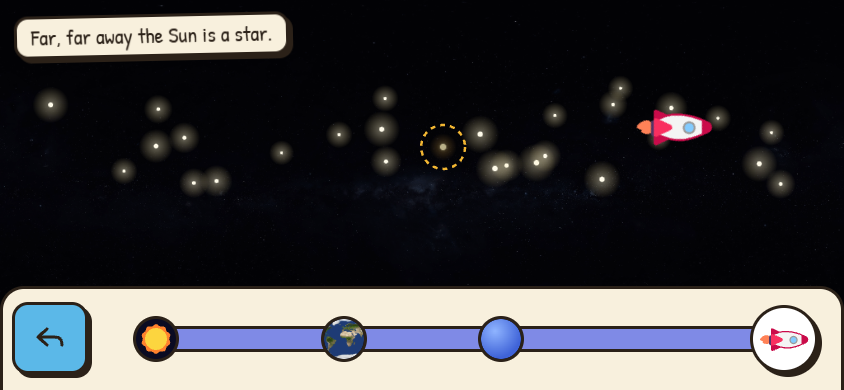
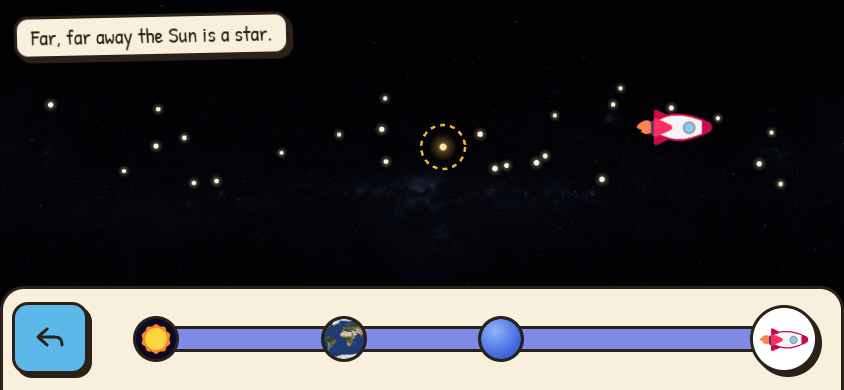
Far away toy: readable Sun size curve, Sun as bright as the brightest star, crisp sky stars

diff --git a/src/toys/sunStar.ts b/src/toys/sunStar.ts
@@ -21,7 +21,7 @@ import handUrl from '../pictures/hand.svg';
 import sunUrl from '../pictures/sun.svg';
 import glowstarUrl from '../pictures/glowstar.svg';
 import {
-  MILESTONES, TRACK_STOPS, apparentRadius, distanceAt, drawnSun, glowStrength, nearestStop,
+  MILESTONES, TRACK_STOPS, displayRadius, glowStrength, nearestStop,
   progressFromTrack, type StopId,
 } from './starDistance';
 
@@ -209,7 +209,7 @@ export function createSunStar(host: HTMLElement, options: SunStarOptions = {}): 
   /** The decorative rocket sits clear of the Sun, lower right, edging up as the Sun shrinks. */
   function placeRocket() {
     const { sy, r0, wide, ship } = lay;
-    const real = apparentRadius(distanceAt(progress), r0);
+    const real = displayRadius(progress, r0);
     const reach = clamp(real * 1.2 + ship * 0.4, 110, r0 * 1.2 + ship * 0.4);
     const x = wide ? width * 0.8 : Math.min(width - ship * 0.9, width * 0.72);
     const y = wide ? sy - 20 : Math.min(sy + reach, lay.bandTop - ship * 0.9);
@@ -307,13 +307,16 @@ export function createSunStar(host: HTMLElement, options: SunStarOptions = {}): 
       const tw = still ? 0.85 : 0.65 + 0.35 * Math.sin(clock * s.speed + s.phase);
       const bloom = blooms.find(b => b.star === i);
       const k = bloom ? (still ? 1 : Math.sin(Math.min(1, bloom.age / BLOOM_SECONDS) * Math.PI)) : 0;
-      const r = s.size * (1 + tw * 0.4) + k * 15;
-      const glow = ctx.createRadialGradient(x, y, 0, x, y, r * 3 + 6);
-      glow.addColorStop(0, `rgba(255,248,214,${(0.5 + 0.4 * k) * alpha * tw})`);
+      // Crisp bright points with a small glow; a little twinkle in brightness, not in size.
+      const core = 1.1 + s.size * 0.5;
+      const r = core + k * 15;
+      const glowR = r * 2.1 + 2;
+      const glow = ctx.createRadialGradient(x, y, 0, x, y, glowR);
+      glow.addColorStop(0, `rgba(255,248,214,${(0.45 + 0.4 * k) * alpha * tw})`);
       glow.addColorStop(1, 'rgba(255,230,150,0)');
       ctx.fillStyle = glow;
       ctx.beginPath();
-      ctx.arc(x, y, r * 3 + 6, 0, TAU);
+      ctx.arc(x, y, glowR, 0, TAU);
       ctx.fill();
       ctx.globalAlpha = alpha;
       if (k > 0.05) {
@@ -326,9 +329,9 @@ export function createSunStar(host: HTMLElement, options: SunStarOptions = {}): 
         ctx.fill();
         ctx.stroke();
       } else {
-        ctx.fillStyle = '#fffbea';
+        ctx.fillStyle = `rgba(255,251,234,${0.75 + 0.25 * tw})`;
         ctx.beginPath();
-        ctx.arc(x, y, r * 0.6, 0, TAU);
+        ctx.arc(x, y, r, 0, TAU);
         ctx.fill();
       }
       ctx.globalAlpha = 1;
@@ -336,11 +339,10 @@ export function createSunStar(host: HTMLElement, options: SunStarOptions = {}): 
   }
 
   function drawSun() {
-    const distance = distanceAt(progress);
     const strength = Math.max(0.55, glowStrength(progress));
     const { sx, sy } = lay;
-    const real = apparentRadius(distance, lay.r0);
-    const { radius, alpha } = drawnSun(real, 3.2);
+    const radius = displayRadius(progress, lay.r0);
+    const alpha = 1;
     root.dataset.sunRadius = radius.toFixed(1);
     root.dataset.sunY = sy.toFixed(1);
     // The glow spills well beyond the disc close up, and shrinks to a glimmer far away.
@@ -358,7 +360,7 @@ export function createSunStar(host: HTMLElement, options: SunStarOptions = {}): 
     body.addColorStop(0, '#fff7cc');
     body.addColorStop(0.55, '#ffd45e');
     body.addColorStop(1, '#f4a42c');
-    ctx.fillStyle = radius > 4 ? body : '#fff3c0';
+    ctx.fillStyle = progress >= FAR_AT ? '#ffe7a0' : body;
     ctx.beginPath();
     ctx.arc(sx, sy, radius, 0, TAU);
     ctx.fill();

diff --git a/src/toys/starDistance.ts b/src/toys/starDistance.ts
@@ -59,6 +59,31 @@ export function angularDiameterDeg(distanceAu: number): number {
   return (2 * Math.atan(SUN_RADIUS_AU / distanceAu) * 180) / Math.PI;
 }
 
+/** Drawn radii (px) at Earth, Neptune and the far end: a Sun a small child can still see. */
+export const DISPLAY_EARTH_PX = 12.5;
+export const DISPLAY_NEPTUNE_PX = 6;
+export const DISPLAY_FAR_PX = 3.4;
+
+/**
+ * The Sun's radius on screen for a given journey progress: the honest 1 / distance size at the
+ * start, then a display curve through the sizes above (straight on a log scale between them,
+ * so it keeps shrinking all the way and never vanishes). The model above stays the truth; this
+ * is only how big the picture is drawn.
+ */
+export function displayRadius(progress: number, startRadius: number): number {
+  const stops = [0, ...MILESTONES.map(m => m.progress)];
+  const sizes = [startRadius, DISPLAY_EARTH_PX, DISPLAY_NEPTUNE_PX, DISPLAY_FAR_PX];
+  const p = Math.min(1, Math.max(0, progress));
+  for (let i = 1; i < stops.length; i++) {
+    if (p <= stops[i]! || i === stops.length - 1) {
+      const k = (p - stops[i - 1]!) / (stops[i]! - stops[i - 1]!);
+      const from = Math.min(sizes[i - 1]!, Math.max(sizes[i]!, sizes[i - 1]!));
+      return Math.exp(Math.log(from) + k * (Math.log(sizes[i]!) - Math.log(from)));
+    }
+  }
+  return DISPLAY_FAR_PX;
+}
+
 /**
  * How the Sun is drawn once it is smaller than anything can be drawn: a dot of at least
  * `minRadius`, a little fainter the smaller the real Sun would be, like any star.

diff --git a/src/toys/starDistance.test.ts b/src/toys/starDistance.test.ts
@@ -1,6 +1,6 @@
 import { describe, expect, it } from 'vitest';
 import {
-  JOURNEY_SECONDS, MILESTONES, NEAREST_STARS_AU, NEPTUNE_AU, START_AU, TRACK_STOPS, angularDiameterDeg,
+  JOURNEY_SECONDS, MILESTONES, NEAREST_STARS_AU, NEPTUNE_AU, START_AU, TRACK_STOPS, displayRadius, angularDiameterDeg,
   apparentRadius, distanceAt, drawnSun, glowStrength, milestoneNear, nearestStop, nextStop, progressAt, progressFromTrack, trackFromProgress, travel,
 } from './starDistance';
 
@@ -115,5 +115,21 @@ describe('far away from the Sun', () => {
     expect(nearestStop(0.5)).toBe('neptune');
     expect(nearestStop(0.9)).toBe('far');
     expect(nearestStop(1)).toBe('far');
+  });
+
+  it('draws the Sun readably: about 12.5 px at Earth, 6 at Neptune, a bright dot at the end, always shrinking', () => {
+    const [earth, neptune] = MILESTONES;
+    for (const start of [90, 164, 240]) {
+      expect(displayRadius(0, start)).toBeCloseTo(start);
+      expect(displayRadius(earth!.progress, start)).toBeCloseTo(12.5, 1);
+      expect(displayRadius(neptune!.progress, start)).toBeCloseTo(6, 1);
+      expect(displayRadius(1, start)).toBeGreaterThanOrEqual(3);
+      let last = Infinity;
+      for (let p = 0; p <= 1.0001; p += 0.01) {
+        const r = displayRadius(p, start);
+        expect(r).toBeLessThan(last);
+        last = r;
+      }
+    }
   });
 });
